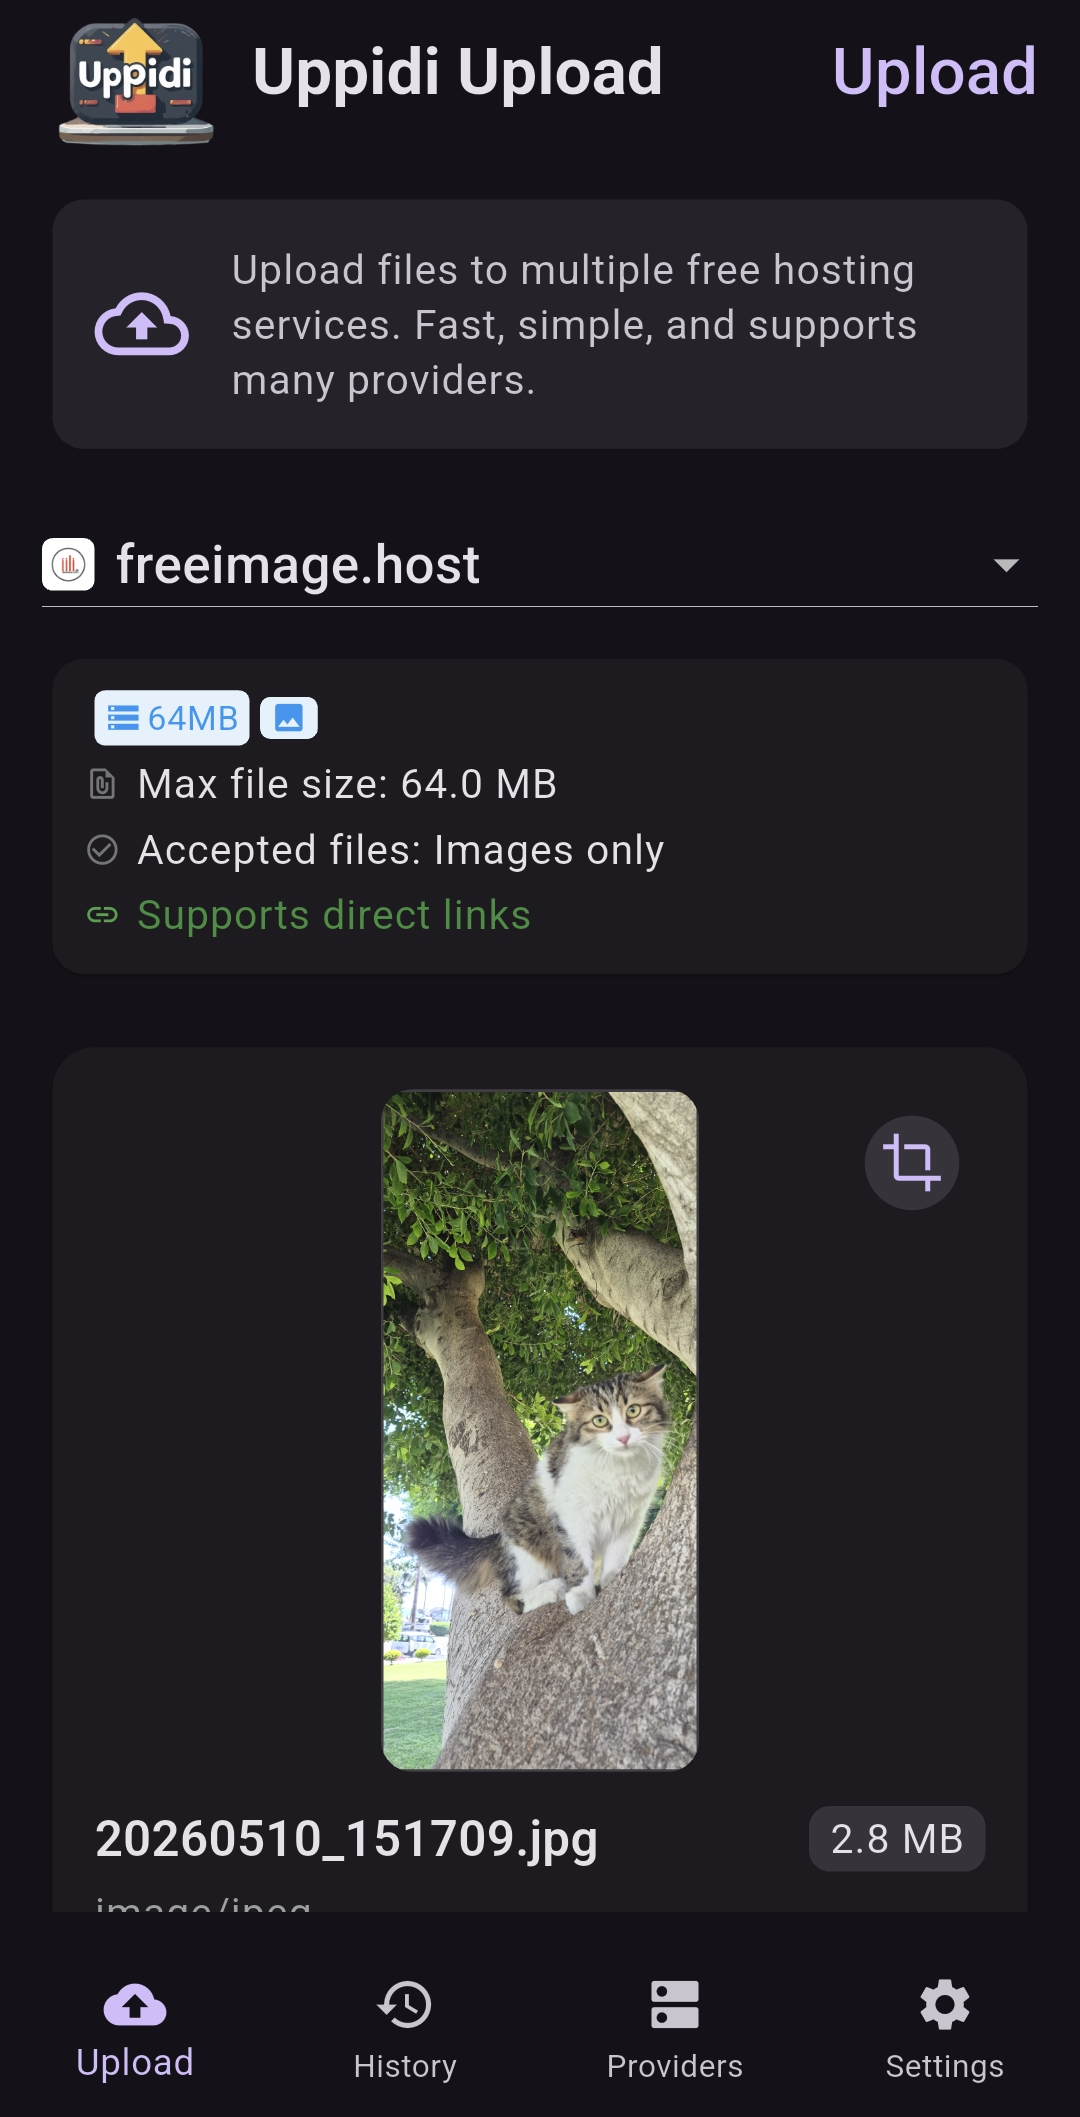
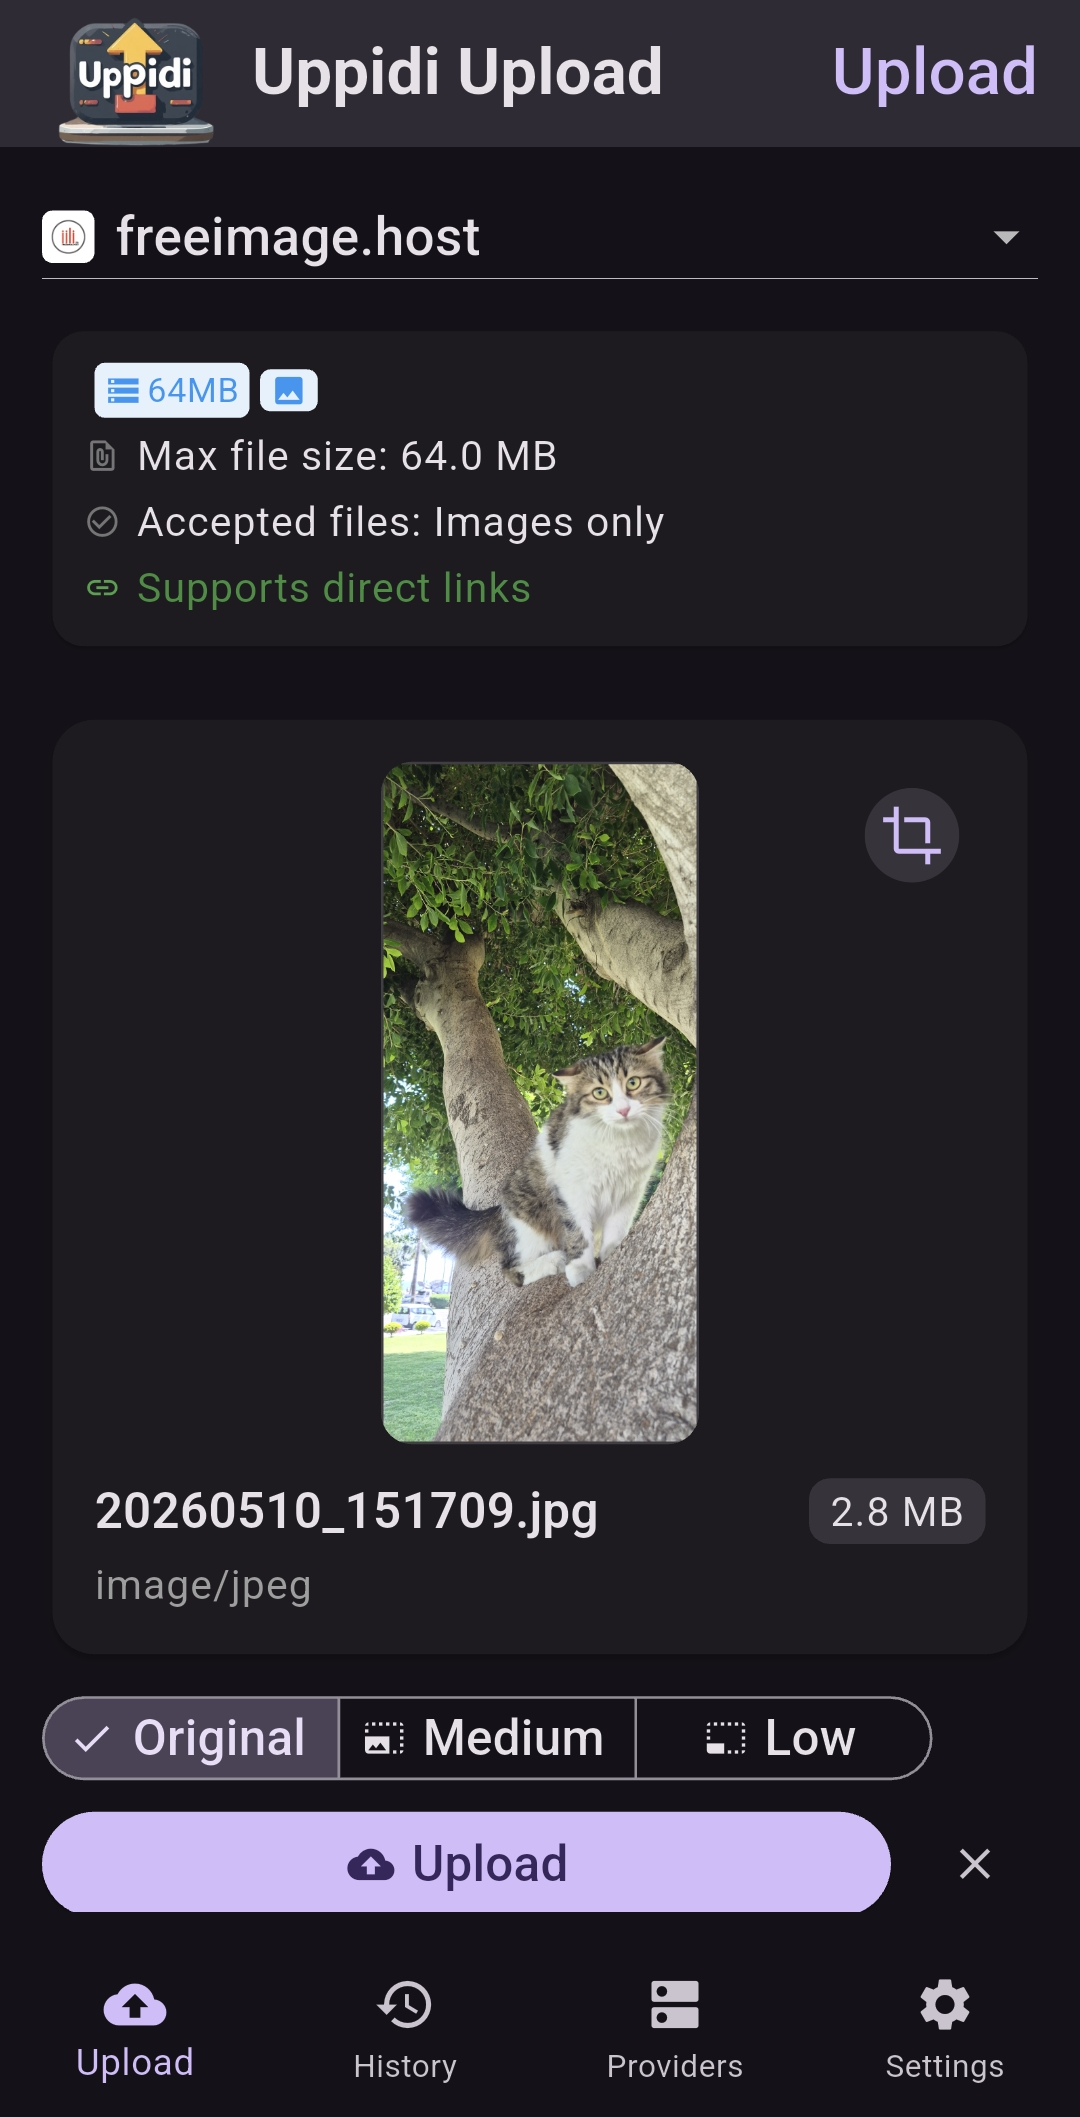
docs: update upload-screen-dark screenshot, add note about pre-built binaries coming soon

diff --git a/README.md b/README.md
@@ -46,6 +46,8 @@ On mobile devices, you can upload directly from your photo gallery or choose any
 
 See [BUILDING.md](BUILDING.md) for instructions on building Uppidi from source for Android, Linux, and web.
 
+> Pre-built binary packages are coming soon.
+
 ## Web Browser Version
 
 Uppidi works in web browsers, but some hosting services cannot be used directly from a browser due to technical limitations (CORS restrictions). On native platforms (Android, Linux desktop), you can configure an HTTP/HTTPS proxy in settings to route uploads through an intermediary server.
